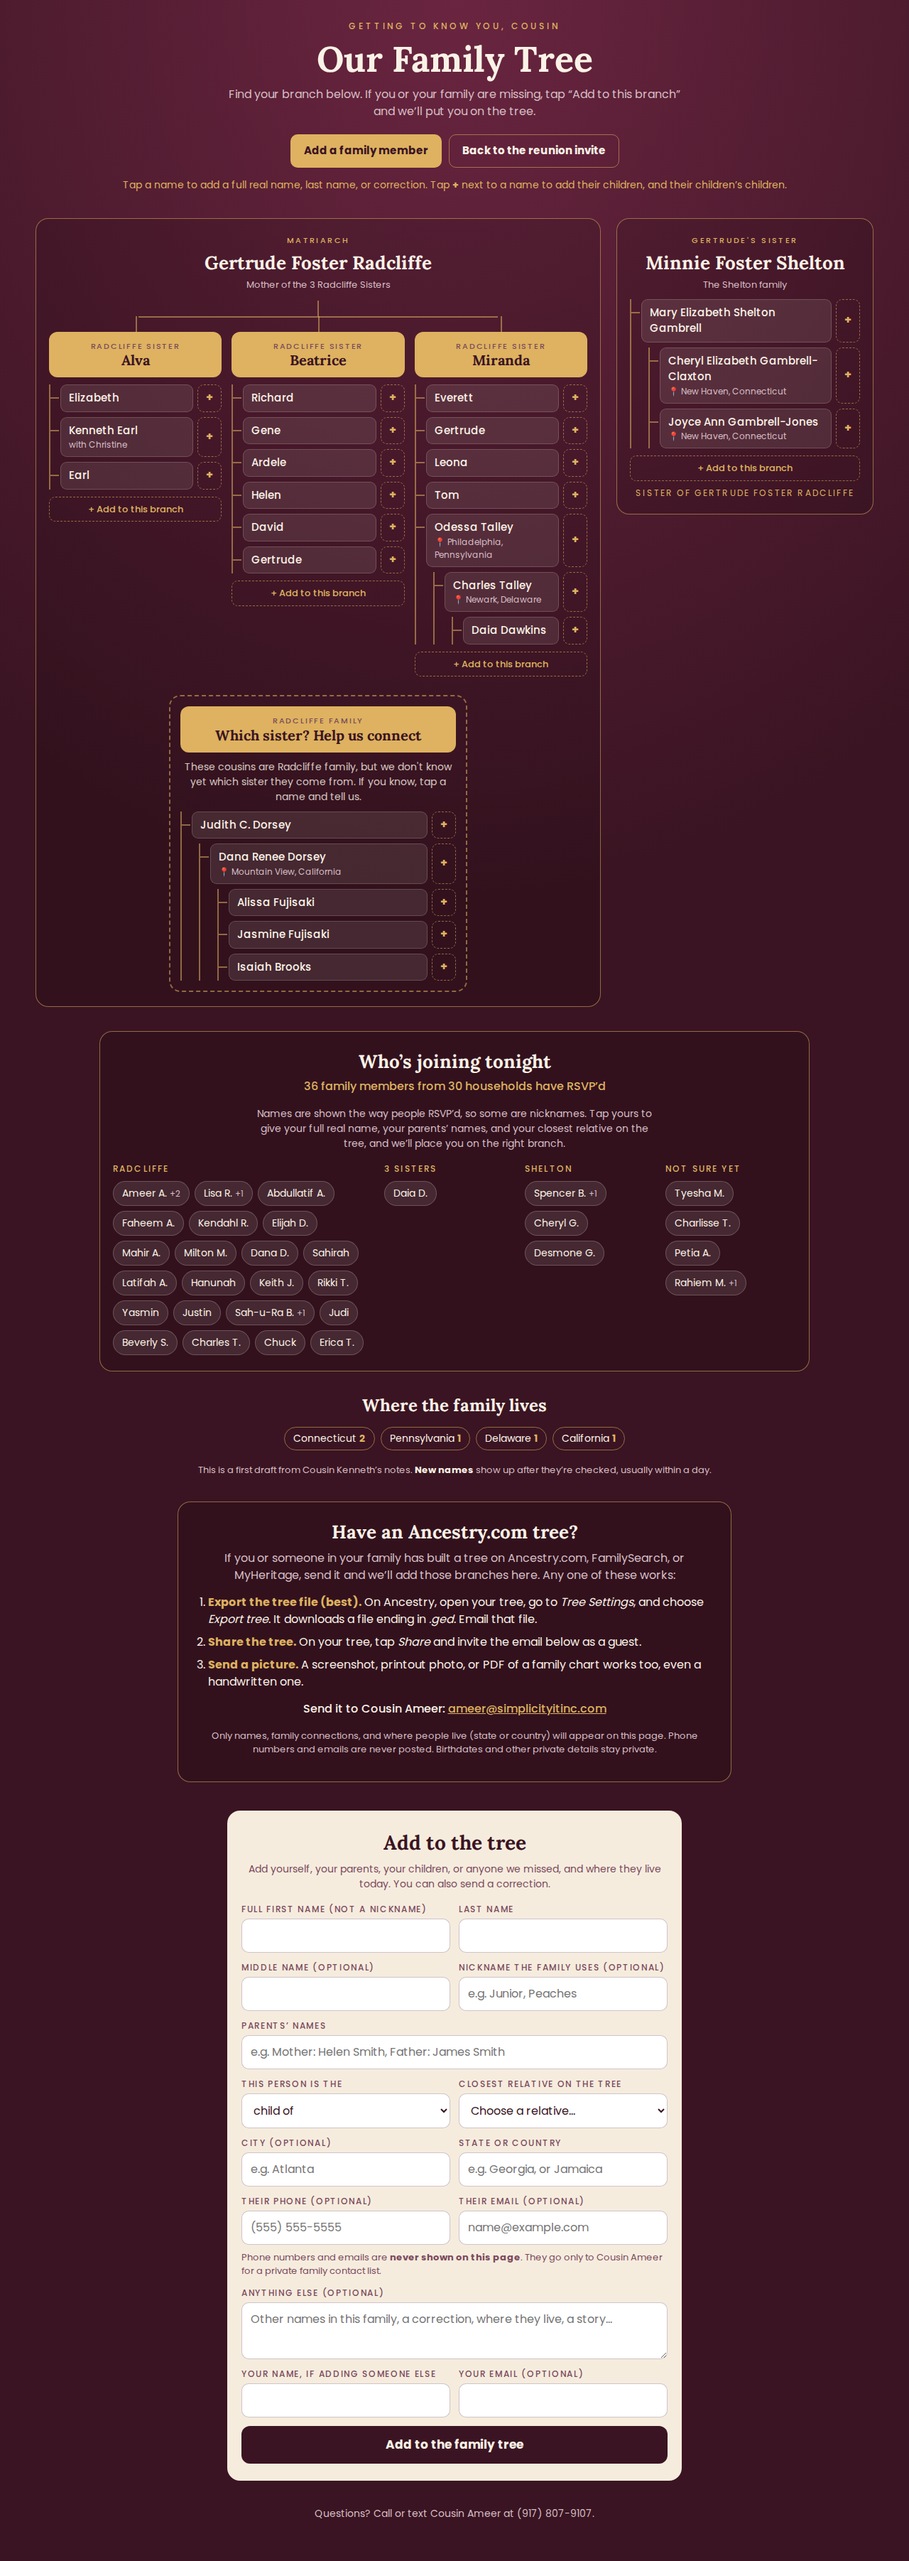
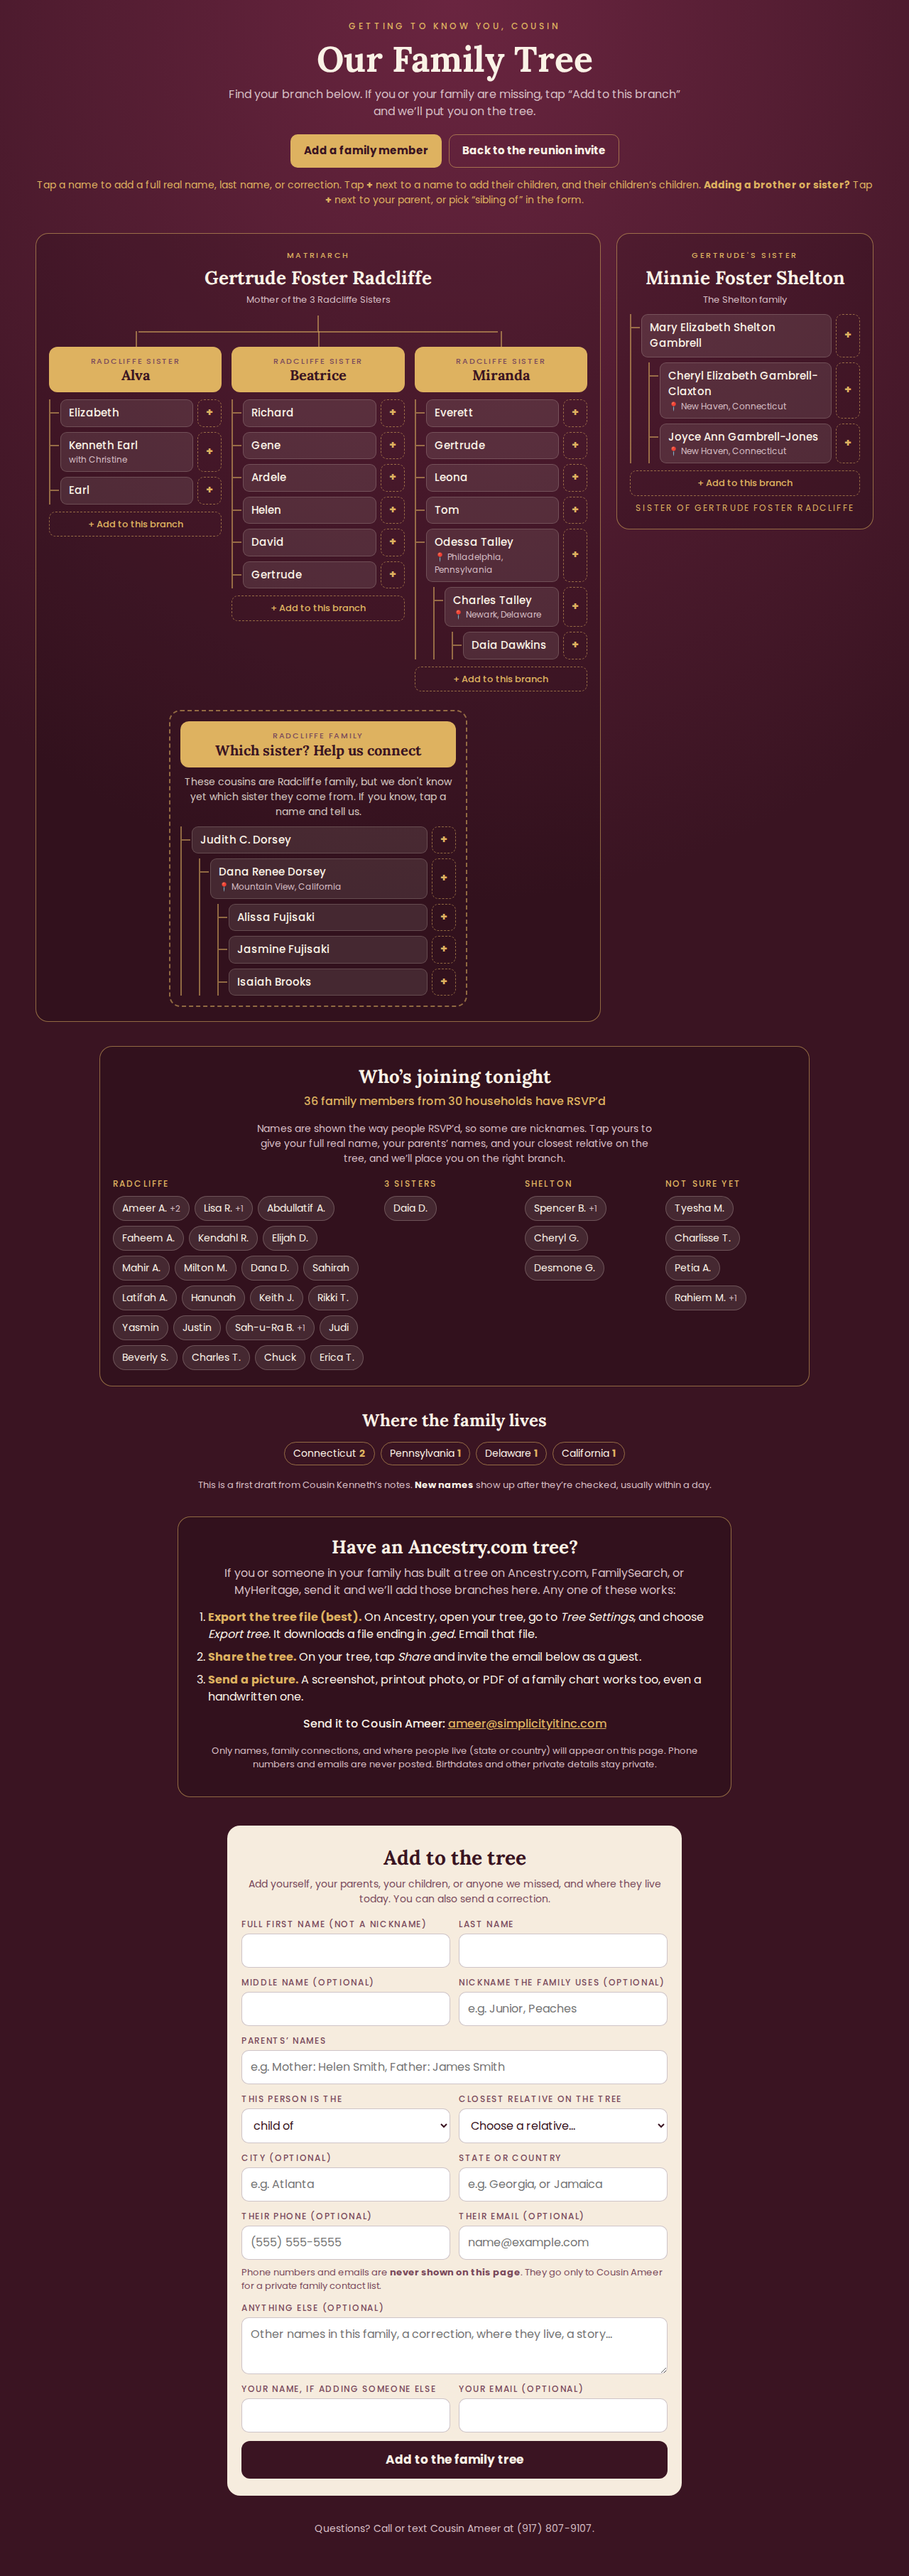
Tree: make adding siblings easy
Claude-Session: https://claude.ai/code/session_01HB5Vg1cxA97bgRGrLQwksg

diff --git a/tree/index.html b/tree/index.html
@@ -154,7 +154,7 @@
   </header>
 
   <p class="zoom-note">Write your name and where you live (state or country) in an empty box under your family. Use Annotate, then the Text tool, at the top of your Zoom window.</p>
-  <p class="fixhint">Tap a name to add a full real name, last name, or correction. Tap <b>+</b> next to a name to add their children, and their children&rsquo;s children.</p>
+  <p class="fixhint">Tap a name to add a full real name, last name, or correction. Tap <b>+</b> next to a name to add their children, and their children&rsquo;s children. <b>Adding a brother or sister?</b> Tap <b>+</b> next to your parent, or pick &ldquo;sibling of&rdquo; in the form.</p>
   <div class="roots" id="tree"></div>
   <section class="joining" id="joining">
     <h2>Who&rsquo;s joining tonight</h2>
@@ -191,7 +191,7 @@
       <div class="field"><label for="parents">Parents&rsquo; names</label><input id="parents" name="parents" placeholder="e.g. Mother: Helen Smith, Father: James Smith"></div>
       <div class="row2">
         <div class="field"><label for="rel">This person is the</label>
-          <select id="rel" name="rel"><option>child of</option><option value="the full name of">the full name of (filling in a last name or correction)</option><option>grandchild of</option><option>great-grandchild of</option><option>spouse or partner of</option><option>parent of</option><option>sibling of</option><option>other (explain below)</option></select></div>
+          <select id="rel" name="rel"><option>child of</option><option value="sibling of">sibling of (brother or sister)</option><option value="the full name of">the full name of (filling in a last name or correction)</option><option>grandchild of</option><option>great-grandchild of</option><option>spouse or partner of</option><option>parent of</option><option>other (explain below)</option></select></div>
         <div class="field"><label for="of">Closest relative on the tree</label><select id="of" name="of"></select></div>
       </div>
       <div class="row2">
